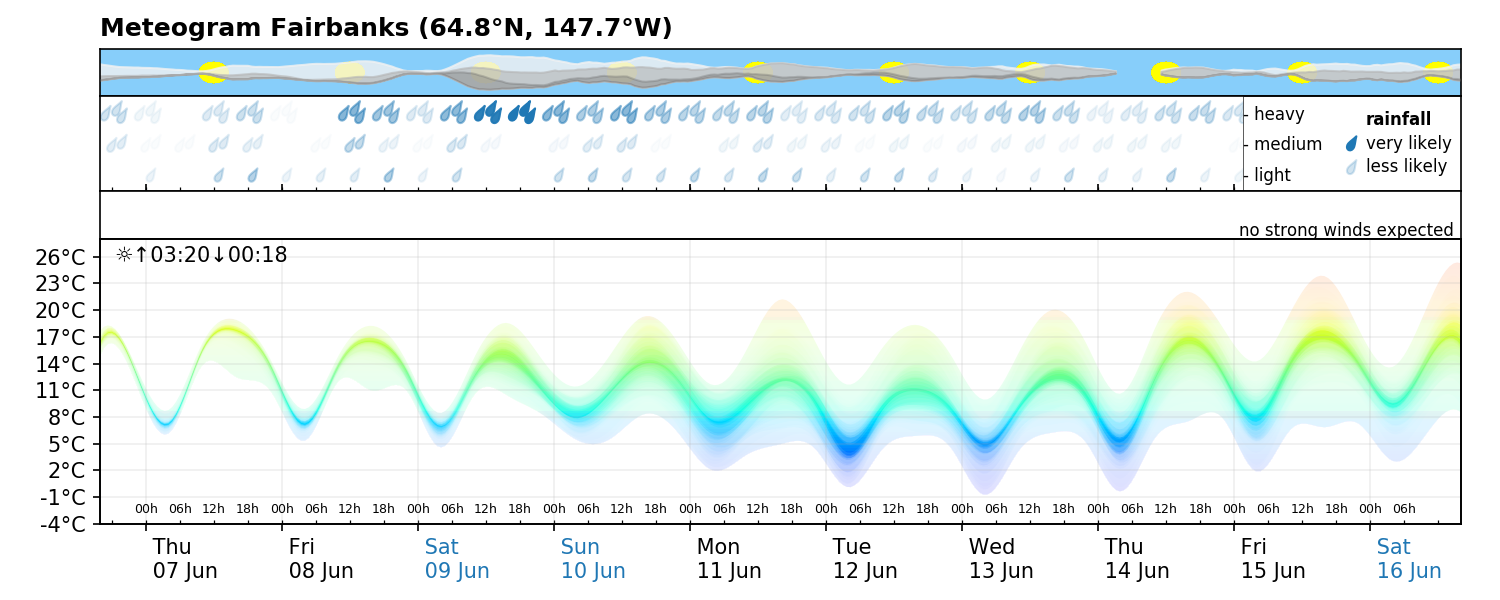
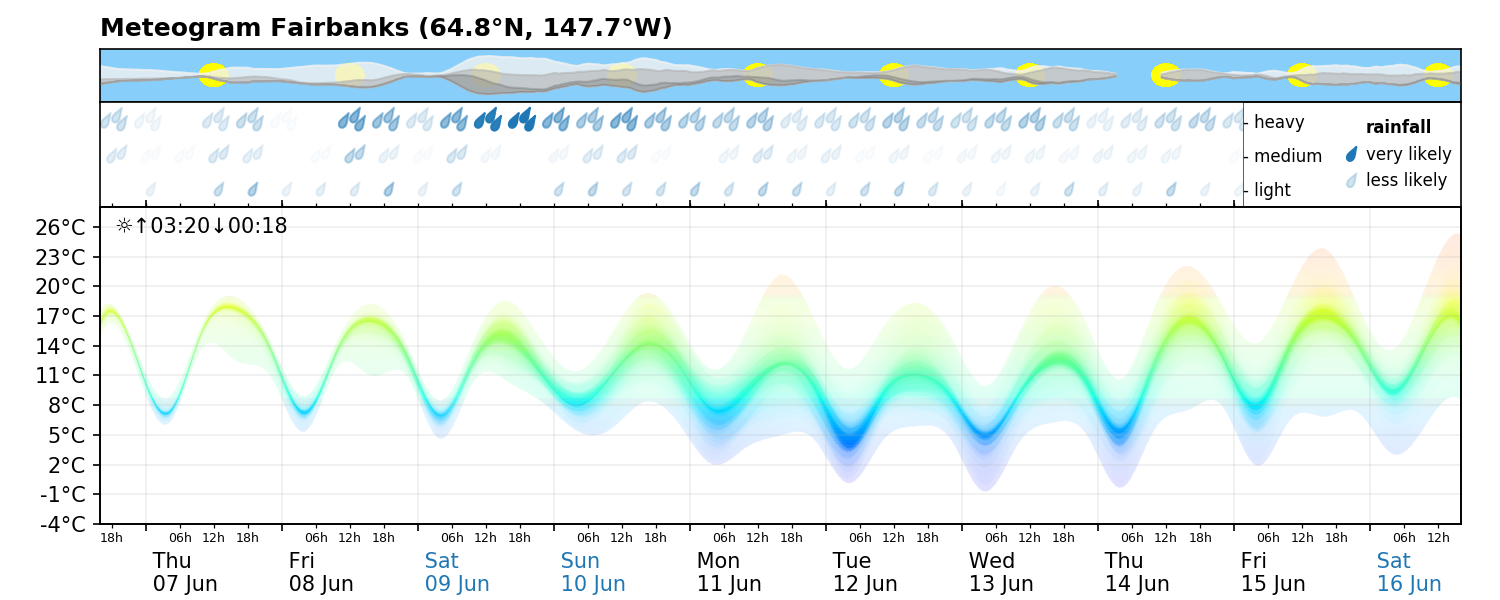
wind socks in temp ax

Changed region(s): [[0.0, 0.09, 0.9813, 0.84], [0.0613, 0.84, 0.9813, 0.99]]

diff --git a/meteogram.py b/meteogram.py
@@ -28,6 +28,7 @@ if len(sys.argv) > 1:
     OUTPUT = sys.argv[2]
 else:
     LOC_ARG = "Rio de Janeiro Brazil"
+    LOC_ARG = "Kingston Jamaica"
     OUTPUT = 0
 
 
@@ -314,21 +315,31 @@ def rain_ax_format(ax,dates,rain_explanation,dsize=78,dstring=(2,0,45)):
 
 def temp_ax_format(ax,tminmax,dates,utcoffset):
     ax.text(0.01,0.92,sunrise_string(loc,dates[0],utcoffset),fontsize=10,transform=ax.transAxes)
-    ax.set_yticks(np.arange(np.round(tminmax[0])-3,np.round(tminmax[1])+3,3))
+    
+    td = tminmax[1]-tminmax[0]
+    if td >= 13.:
+        ddegree = 3
+    elif td < 13. and td >= 5.:
+        ddegree = 2
+    else:
+        ddegree = 1
+    
+    ax.set_yticks(np.arange(np.round(tminmax[0])-3,np.round(tminmax[1])+3,ddegree))
     ax.set_ylim(np.round(tminmax[0])-3,np.round(tminmax[1])+3)
     ax.yaxis.set_major_formatter(FormatStrFormatter('%d'+u'\N{DEGREE SIGN}'+'C'))
 
     # x axis lims, ticks, labels
     ax.set_xlim(dates[0],dates[-1])
-    ax.xaxis.set_minor_locator(HourLocator(np.arange(0, 25, 6)))    # minor
+    ax.xaxis.set_minor_locator(HourLocator(np.arange(6, 25, 6)))    # minor
     ax.xaxis.set_minor_formatter(DateFormatter("%Hh"))
-    ax.get_xaxis().set_tick_params(which='minor', direction='in',pad=-10,labelsize=6)
+    ax.get_xaxis().set_tick_params(which='minor', direction='out',pad=2,labelsize=6)
     ax.grid(alpha=0.2)
 
     # major weekdays not weekend in black
     ax.xaxis.set_major_locator(WeekdayLocator(byweekday=range(5)))
     ax.xaxis.set_major_formatter(DateFormatter(" %a\n %d %b"))
     plt.setp(ax.get_xticklabels(), ha="left")
+    ax.get_xaxis().set_tick_params(which='major', direction='out',pad=10,labelsize=10)
     
     # major weekends in blue
     ax_weekend = ax.twiny()                             
@@ -337,6 +348,7 @@ def temp_ax_format(ax,tminmax,dates,utcoffset):
     ax_weekend.xaxis.set_major_formatter(DateFormatter(" %a\n %d %b"))
     ax_weekend.xaxis.tick_bottom()
     plt.setp(ax_weekend.get_xticklabels(), ha="left", color="C0")
+    ax_weekend.get_xaxis().set_tick_params(which='major', direction='out',pad=10,labelsize=10)
     ax_weekend.grid(alpha=0.2)
     
     # remove labels at edges
@@ -348,8 +360,8 @@ def temp_ax_format(ax,tminmax,dates,utcoffset):
     
     #ax.get_xticklabels()[2].set_color("C0") #TODO make automatic
     #ax.get_xticklabels()[3].set_color("C0")
-    ax.get_xticklabels(which="minor")[-1].set_visible(False)
-    ax.get_xticklabels(which="minor")[0].set_visible(False)
+    #ax.get_xticklabels(which="minor")[-1].set_visible(False)
+    #ax.get_xticklabels(which="minor")[0].set_visible(False)
 
 def wind_ax_format(ax,dates):
     ax.set_xlim(dates[0],dates[-1])
@@ -414,31 +426,29 @@ def rain_plotter(ax,lightrain,medrain,heavyrain,rdates,dsize=78,dstring=(2,0,45)
     rain_ax.scatter([d+dt for d in rdates],1.87+np.zeros_like(rdates),dsize*1.1,color=heavyrain,marker=dropletpath)
     rain_ax.scatter([d-2.2*dt for d in rdates],1.95+np.zeros_like(rdates),dsize*1.1,color=heavyrain,marker=dropletpath)
 
-def wind_plotter(ax,dates,p_storm,storm_strength):
+def wind_plotter(ax,dates,p_storm,storm_strength,tminmax):
     
-    windsock_weak = wind_sock(rot=60)
-    windsock_medi = wind_sock(rot=75)
+    windsock_weak = wind_sock(rot=50)
+    windsock_medi = wind_sock(rot=70)
     windsock_stro = wind_sock(rot=90)
     
     q0,q1,q2 = storm_strength       # for readability
     
-    ax.scatter([d for q,d in zip(q0,dates) if q],np.ones_like(dates)[q0],400,color=p_storm[q0,:],marker=windsock_weak)
-    ax.scatter([d for q,d in zip(q1,dates) if q],np.ones_like(dates)[q1],400,color=p_storm[q1,:],marker=windsock_medi)
-    ax.scatter([d for q,d in zip(q2,dates) if q],np.ones_like(dates)[q2],400,color=p_storm[q2,:],marker=windsock_stro)
+    y0,y1 = ax.get_ylim()
     
-    if np.sum(storm_strength) == 0:
-        ax.text(0.995,0.05,"no strong winds expected",fontsize=8,transform=ax.transAxes,ha="right")
+    ax.scatter([d for q,d in zip(q0,dates) if q],np.ones_like(dates)[q0]*y0+(y1-y0)*0.04,300,color=p_storm[q0,:],marker=windsock_weak)
+    ax.scatter([d for q,d in zip(q1,dates) if q],np.ones_like(dates)[q1]*y0+(y1-y0)*0.04,350,color=p_storm[q1,:],marker=windsock_medi)
+    ax.scatter([d for q,d in zip(q2,dates) if q],np.ones_like(dates)[q2]*y0+(y1-y0)*0.04,400,color=p_storm[q2,:],marker=windsock_stro)
     
     
 # PLOTTING
 fig = plt.figure(figsize=(10,4))
 
 # subplots adjust
-all_ax = gridspec.GridSpec(4, 1, height_ratios=[1,2,1,6],hspace=0)
+all_ax = gridspec.GridSpec(3, 1, height_ratios=[1,2,6],hspace=0)
 cloud_ax = plt.subplot(all_ax[0])
 rain_ax = plt.subplot(all_ax[1])
-wind_ax = plt.subplot(all_ax[2])
-temp_ax = plt.subplot(all_ax[3])
+temp_ax = plt.subplot(all_ax[2])
 
 plt.tight_layout(rect=[0.02,.03,1,0.97])
 
@@ -446,12 +456,11 @@ plt.tight_layout(rect=[0.02,.03,1,0.97])
 cloud_ax_format(cloud_ax,dates,loc)
 rain_ax_format(rain_ax,dates,rain_explanation)
 temp_ax_format(temp_ax,tminmax,dates,utcoffset)
-wind_ax_format(wind_ax,dates)
 
 temp_plotter(temp_ax, dates, t_mean_spline, t_data_spline, tminmax)
 add_clouds_to(cloud_ax,dates,hcc_data_spline,mcc_data_spline,lcc_data_spline)
 rain_plotter(rain_ax,lightrain,medrain,heavyrain,rdates)
-wind_plotter(wind_ax,dates,p_storm,storm_strength)
+wind_plotter(temp_ax,dates,p_storm,storm_strength,tminmax)
 
 if OUTPUT:
     plt.savefig("examples/meteogram_"+loc.address.split(",")[0]+".png",dpi=150)

diff --git a/create_examples.py b/create_examples.py
@@ -6,7 +6,9 @@ locations = ["Santiago Chile",
             "Kingston Jamaica",
             "Oxford UK",
             "Hobart Australia",
-            "Fairbanks Alaska"]
+            "Fairbanks Alaska",
+            "Cape Town South Africa",
+            "Rio de Janeiro Brazil"]
 
 for loc in locations:
     os.system("python meteogram.py '"+loc+"' 1")
